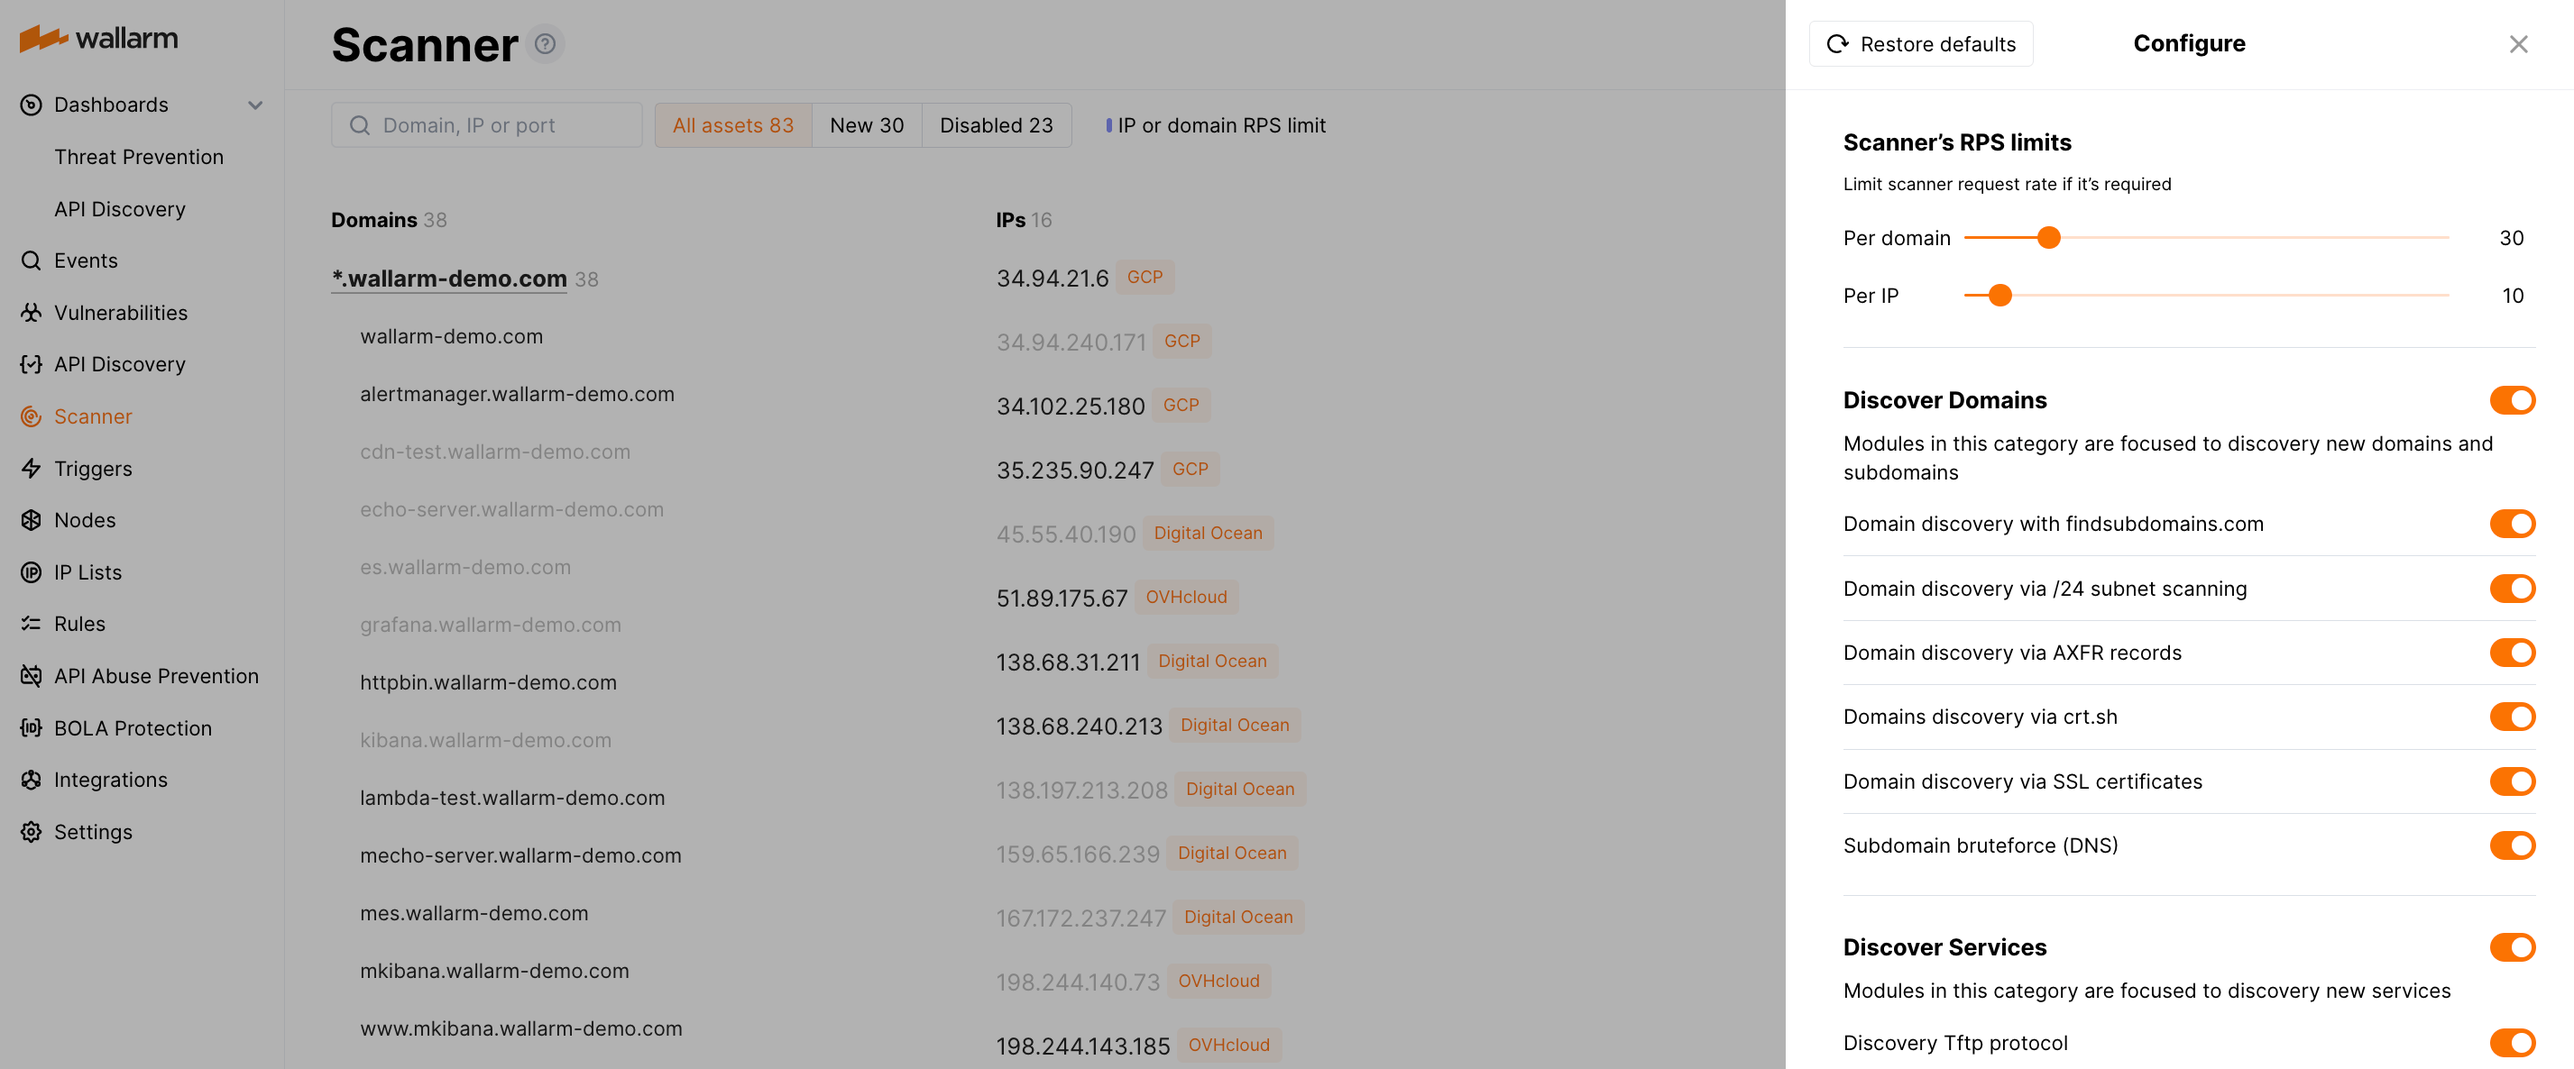
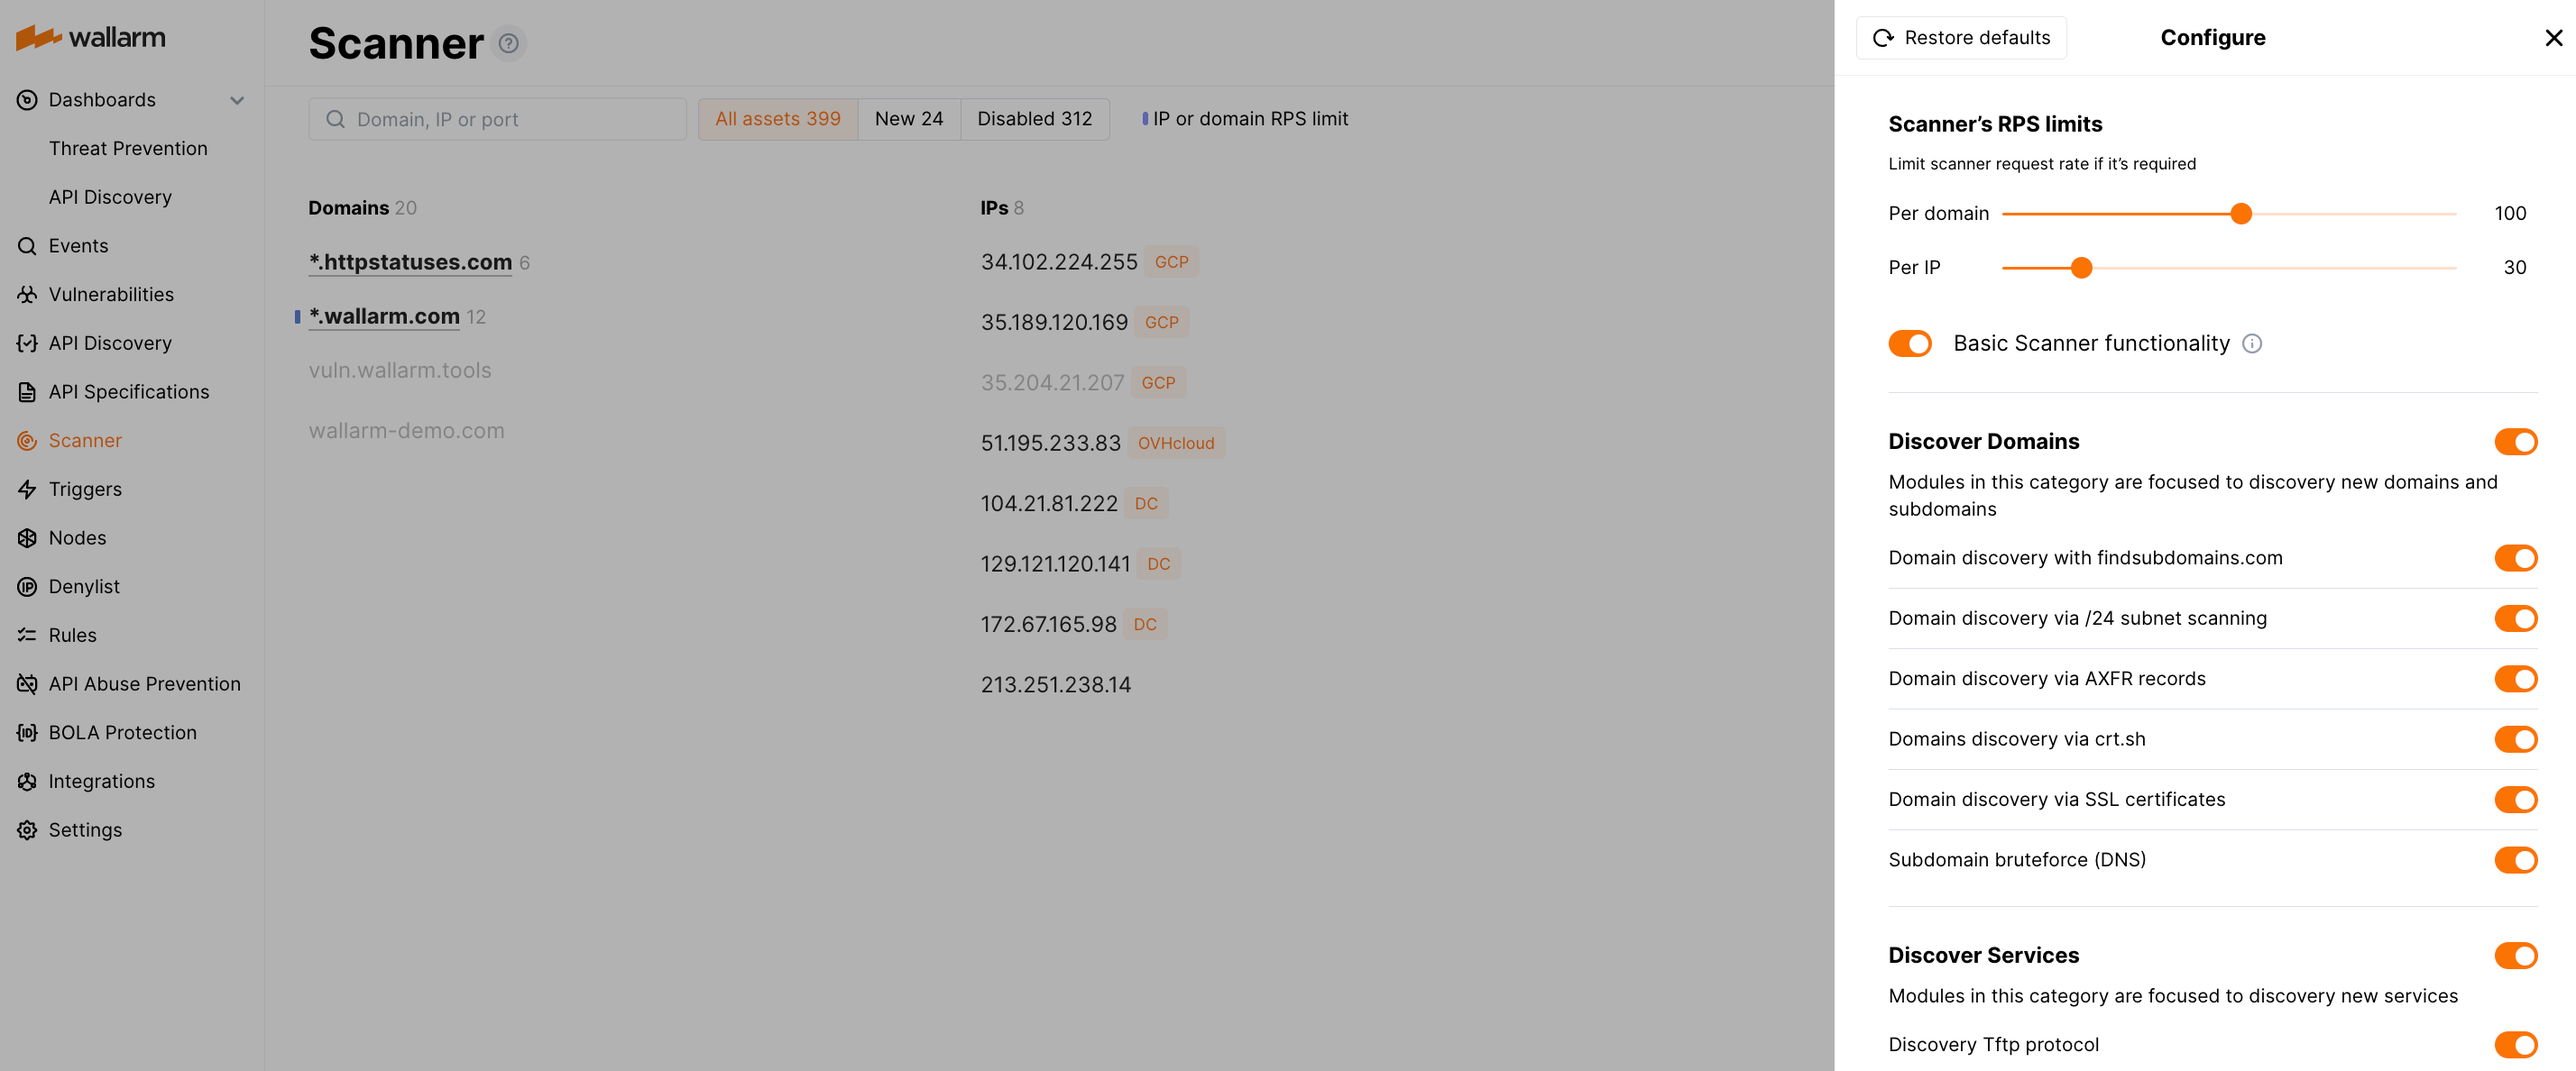
DOCS-2172 reflect the new global switcher of the vulnerability scanner

diff --git a/docs/2.18/user-guides/vulnerabilities.md b/docs/2.18/user-guides/vulnerabilities.md
@@ -70,11 +70,11 @@ If you need to recheck a vulnerability manually, you can trigger the rechecking 
 
 The vulnerability detection configuration can be fine-tuned using the **Configure** button, with the following options:
 
-* Enable / disable **Vulnerability Scanner** and specify the types of vulnerabilities you want to detect using this Wallarm module. The Scanner is enabled by default and is set to target all available vulnerability types.
+* You can choose the specific types of vulnerabilities you want to detect using the Vulnerability Scanner. By default, the Scanner is set to target all available vulnerability types.
+* Enable / disable **Basic Scanner functionality** which includes both the vulnerability and [exposed asset](scanner.md) discovery processes. By default, this functionality is enabled.
 
-    !!! info "Disabling Vulnerability Scanner affects exposed asset discovery"
-        Please note that the **Vulnerability Scanner** switcher controls both the vulnerability and [exposed asset](scanner.md) discovery processes.
-* Enable / disable vulnerability rechecking with the Scanner by selecting the **Recheck vulnerabilities** option.
+    You can also find the same toggle switch in the **Scanner** section. Changing the switch in one section will automatically update the setting in the other section as well.
+* Enable / disable vulnerability rechecking with the Scanner by using the **Recheck vulnerabilities** option.
 * Enable / disable the **Active threat verification** module for vulnerability detection and rechecking. Note that this option controls the module itself, not just the rechecking process.
 
     By default, this module is disabled, learn its configuration [best practices](../admin-en/attack-rechecker-best-practices.md) before enabling.

diff --git a/docs/latest/user-guides/vulnerabilities.md b/docs/latest/user-guides/vulnerabilities.md
@@ -70,11 +70,11 @@ If you need to recheck a vulnerability manually, you can trigger the rechecking 
 
 The vulnerability detection configuration can be fine-tuned using the **Configure** button, with the following options:
 
-* Enable / disable **Vulnerability Scanner** and specify the types of vulnerabilities you want to detect using this Wallarm module. The Scanner is enabled by default and is set to target all available vulnerability types.
+* You can choose the specific types of vulnerabilities you want to detect using the Vulnerability Scanner. By default, the Scanner is set to target all available vulnerability types.
+* Enable / disable **Basic Scanner functionality** which includes both the vulnerability and [exposed asset](scanner.md) discovery processes. By default, this functionality is enabled.
 
-    !!! info "Disabling Vulnerability Scanner affects exposed asset discovery"
-        Please note that the **Vulnerability Scanner** switcher controls both the vulnerability and [exposed asset](scanner.md) discovery processes.
-* Enable / disable vulnerability rechecking with the Scanner by selecting the **Recheck vulnerabilities** option.
+    You can also find the same toggle switch in the **Scanner** section. Changing the switch in one section will automatically update the setting in the other section as well.
+* Enable / disable vulnerability rechecking with the Scanner by using the **Recheck vulnerabilities** option.
 * Enable / disable the **Active threat verification** module for vulnerability detection and rechecking. Note that this option controls the module itself, not just the rechecking process.
 
     By default, this module is disabled, learn its configuration [best practices](../admin-en/attack-rechecker-best-practices.md) before enabling.

diff --git a/docs/latest/user-guides/scanner.md b/docs/latest/user-guides/scanner.md
@@ -87,7 +87,7 @@ To fine-tune asset scanning in Wallarm, click the **Configure** button. From the
 
 ![!Scanner config](../images/user-guides/vulnerabilities/scanner-configuration-options.png)
 
-There is also a [global switcher for the Wallarm Scanner](vulnerabilities.md#configuring-vulnerability-detection) located in the **Vulnerabilities** section. This switcher enables or disables the Scanner for your entire company account, controlling both the asset scanning and vulnerability discovery processes.
+There is also the global switcher for the Wallarm Scanner called **Basic Scanner functionality**. This switcher enables or disables the Scanner for your entire company account, controlling both the asset scanning and vulnerability discovery processes. You can also find the same toggle switch in the **Vulnerabilities** section. Changing the switch in one section will automatically update the setting in the other section as well.
 
 ## Scanning exposed assets for vulnerabilities
 
